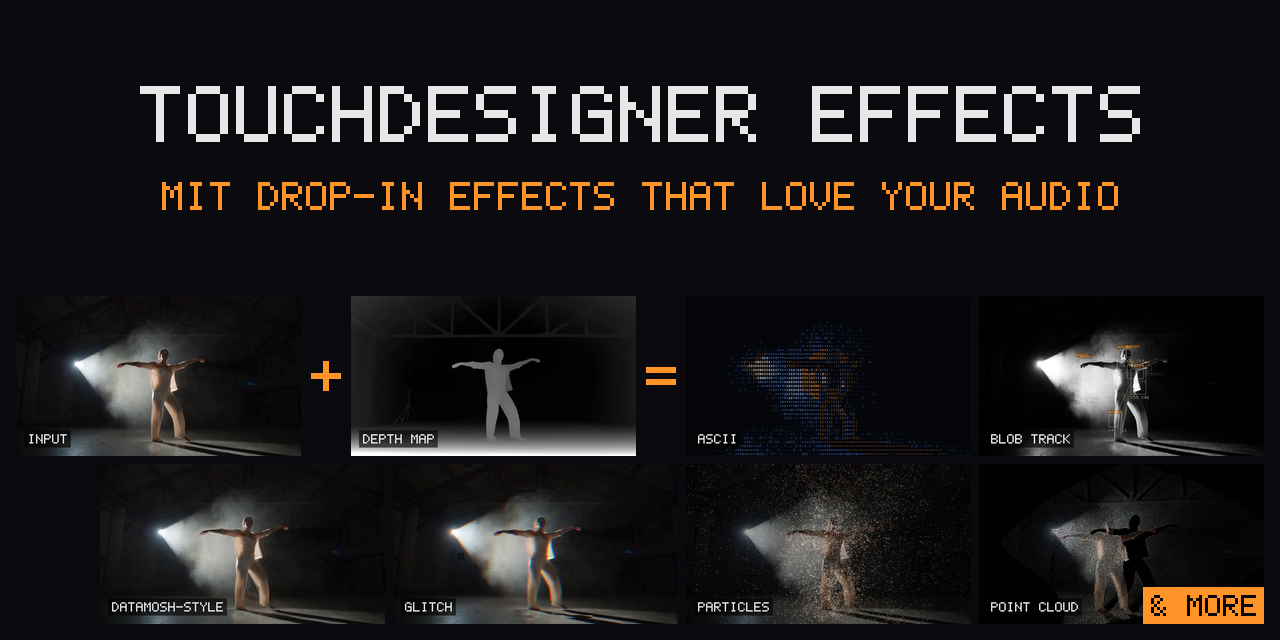
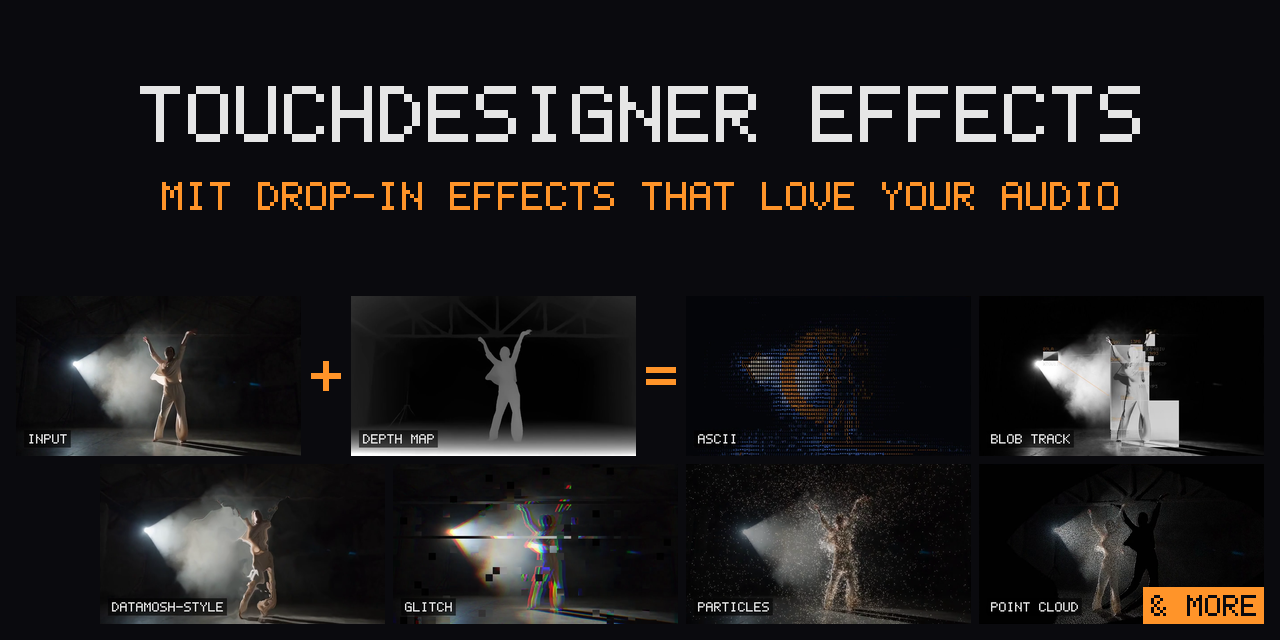
Social preview: a moment where Datamosh and Glitch show
- docs/social-preview.png takes the hero's frame at 6.5 s instead of
  5.6 s. At 5.6 s Datamosh-style and Glitch barely differed from the
  input (0.20 and 0.31 of their usual distance from it, frame by
  frame); at 6.5 s both are at full strength (1.00 and 0.94): the
  dancer smears into the haze and the picture splits and tears, with
  every other cell still clear.
- docs/BUILDING.md: the recipe's --still is 6.5.

diff --git a/docs/BUILDING.md b/docs/BUILDING.md
@@ -286,7 +286,7 @@ The other dev tools, each run through `dev/td.sh` (their headers say more):
 | `dev/beat_bench.py` | `lib/audio_callbacks.py` outside TouchDesigner: feeds it a song as raw audio and scores its beats and bars against the song's beat grid (`uv run --with numpy dev/beat_bench.py`); `--selftest` checks the beat clock on a made-up kick track with missing and extra kicks |
 | `dev/reaction.py` + `dev/reaction_report.py` | record each effect with a song as raw audio on input 2 and without audio, then measure what the music does to the picture: how much more it changes after a beat than before (the take without audio at the same times is the control), what a bar adds, and how brightness follows loudness (`uv run --with numpy dev/reaction_report.py dev/out/reaction`) |
 | `dev/record.py` + `dev/clips.py` | record effects (and, named `input` and `depth`, the clip and its depth map) as video with sound (Motion JPEG: the free license can't encode H.264), then MP4s and docs previews (`uv run dev/clips.py dev/out/record --preview`) |
-| `dev/tile.py` | tile `dev/record.py`'s takes into one labeled grid, rows centered, in the library's font: the README's hero and the Showreel's preview (`TD_ARGS='input depth ascii ... seconds=8' dev/td.sh dev/record.py`, then `uv run --with pillow dev/tile.py dev/out/record --rows 'input,depth\|ascii,...' --titles 'input=INPUT,...' --out dev/out/record/hero --still 5.6`) |
+| `dev/tile.py` | tile `dev/record.py`'s takes into one labeled grid, rows centered, in the library's font: the README's hero and the Showreel's preview (`TD_ARGS='input depth ascii ... seconds=8' dev/td.sh dev/record.py`, then `uv run --with pillow dev/tile.py dev/out/record --rows 'input,depth\|ascii,...' --titles 'input=INPUT,...' --out dev/out/record/hero --still 6.5`) |
 | `dev/social.py` | the repository's social preview (GitHub, Settings, Social preview) from that still: `docs/social-preview.png`, uploaded by hand |
 | `dev/idle.py` | checks an effect does nothing while its output is unused, input 2 unwired and wired (TD_IDIOMS C5) |
 | `dev/testbed.py` | the clip, its depth (input 3, for an effect that takes one) and the stress beat `flash.py`, `perf.py` and `idle.py` feed every effect |
